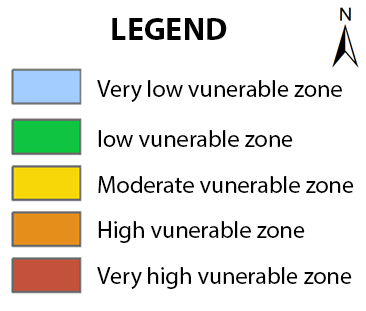
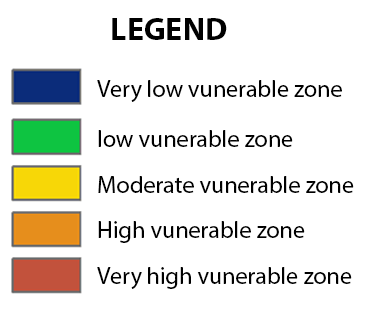
final

Changed region(s): [[0.0301, 0.2026, 0.2404, 0.3473], [0.9016, 0.0289, 0.9918, 0.2315]]

diff --git a/templates/gistool/index.html b/templates/gistool/index.html
@@ -24,7 +24,7 @@
       <div class="infooverlay well">
         <h3>Help</h3>
         <p>This is a tool to analyze groundwater vulnerabilities and you can analyze, view, share, download and take screenshots of the resultant analysis.</p>
-      </div>
+        </div>
     </div>
     <div id="disclaimerdiv" class="fade-wrapper">
       <div class="infooverlay well">
@@ -37,6 +37,10 @@
       <div class="infooverlay well">
         <h3>About</h3>
         <p>This application is an open source tool developed to study ground water vulnerability in coastal Areas.</p>
+        <h3>GALDIT model</h3>
+        <p>The GALDIT model developed by Chachadi and Labo-Ferreira (2001) is used for mapping the seawater intrusion vulnerability. This model has used six influencing parameters that are having more sensitivity to seawater intrusion vulnerability under various hydrogeological settings. A numerical ranking system of this model is applied to analyze the GALDIT parameters, which are drawn up into map layers with an attributes of weights and ratings. The empirical algorithm is represented as  〖SWI〗_i={(G_w G_r )+(A_w A_r )+(L_w L_r )+(D_w D_r )+(I_w I_r )+(T_w T_r )}  /∑_(i=1)^6▒W_i . Where, 〖SWI〗_i refers seawater intrusion vulnerability index value; G, A, L, D, I and T refers the parameters such as Groundwater occurrence (or) Aquifer type (G) Aquifer Hydraulic Conductivity (A); Groundwater table level above Mean Sea Level (L); Distance from the Shore (D); Impact of existing seawater intruded zone (I); Aquifer Thickness (T) used in GALDIT model; w is assigned weights to a parameter; r is assigned a rating of feature classes of a parameter.</p>
+        <h3>DRASTIC model</h3>
+        <p>The DRASTIC model developed by EPA-USA (Aller et al. 1987) to evaluate the groundwater vulnerable zone to contamination from point and non-point sources. The seven DRASTIC parameters have been analyzed using the statistical equation of this model to demarcate the vulnerable zones for aquifer contamination. The computation of this model is defined as the rate of the feature classes in a particular layer multiplied by the assigned weight of the layer.  The equation is expressed as follows,  Di= DrDw + RrRw + ArAw + SrSw + TrTw + IrIw + CrCw /∑_(i=1)^6▒D_i . Where Di is vulnerable index; D = Depth to groundwater table; R = Net Recharge; A = Aquifer media; S = Soil media; T = Topography (slope); I = Impacts of vadose zone; C = hydraulic Conductivity. The variable of all parameters such as r being refers the rate of the feature classes in each parameter and w is the weight assigned to the parameters.</p>
       </div>
     </div>
     <div id="header">
@@ -44,6 +48,7 @@
         <a href="/"><img class="header-left" src="{% static "Header-left.png" %}"  alt="NCESS LOGO"></a>
       </div>
   	   <ul id="buttons">
+          <li><a id="about" class="overlaybutton" href="#">About</a></li>
           <li><a id="help" class="overlaybutton" href="#">Help</a></li>
           <li><a id="disclaimer" class="overlaybutton" href="#">Disclaimer</a></li>
       </ul>

diff --git a/gistool/calculations.py b/gistool/calculations.py
@@ -15,7 +15,7 @@ def to_rgb(bandarray):
     bandarray = bandarray * 100
     # Colour the red band
     r_ba = bandarray * 1 #intialize new band
-    r_ba[(r_ba > 0) & (r_ba < 33)] = 16300 #first class
+    r_ba[(r_ba > 0) & (r_ba < 33)] = 1100 #first class
     r_ba[(r_ba > 33) & (r_ba < 50)] = 1400 #Second Class
     r_ba[(r_ba > 50) & (r_ba < 66)] = 24500 #third class
     r_ba[(r_ba > 66) & (r_ba < 83)] = 23000 #fourth class
@@ -23,7 +23,7 @@ def to_rgb(bandarray):
     r_ba = np.divide(r_ba, 100)
     # Colour the green band
     g_ba = bandarray * 1
-    g_ba[(g_ba > 0) & (g_ba < 33)] = 20400 #first class
+    g_ba[(g_ba > 0) & (g_ba < 33)] = 4400 #first class
     g_ba[(g_ba > 33) & (g_ba < 50)] = 19600 #Second Class
     g_ba[(g_ba > 50) & (g_ba < 66)] = 21500 #third class
     g_ba[(g_ba > 66) & (g_ba < 83)] = 14200 #fourth class
@@ -31,7 +31,7 @@ def to_rgb(bandarray):
     g_ba = np.divide(g_ba, 100)
     # Colour the blue band
     b_ba = bandarray * 1
-    b_ba[(b_ba > 0) & (b_ba < 33)] = 25500 #first class
+    b_ba[(b_ba > 0) & (b_ba < 33)] = 12200 #first class
     b_ba[(b_ba > 33) & (b_ba < 50)] = 6500 #Second Class
     b_ba[(b_ba > 50) & (b_ba < 66)] = 700 #third class
     b_ba[(b_ba > 66) & (b_ba < 83)] = 2800 #fourth class
